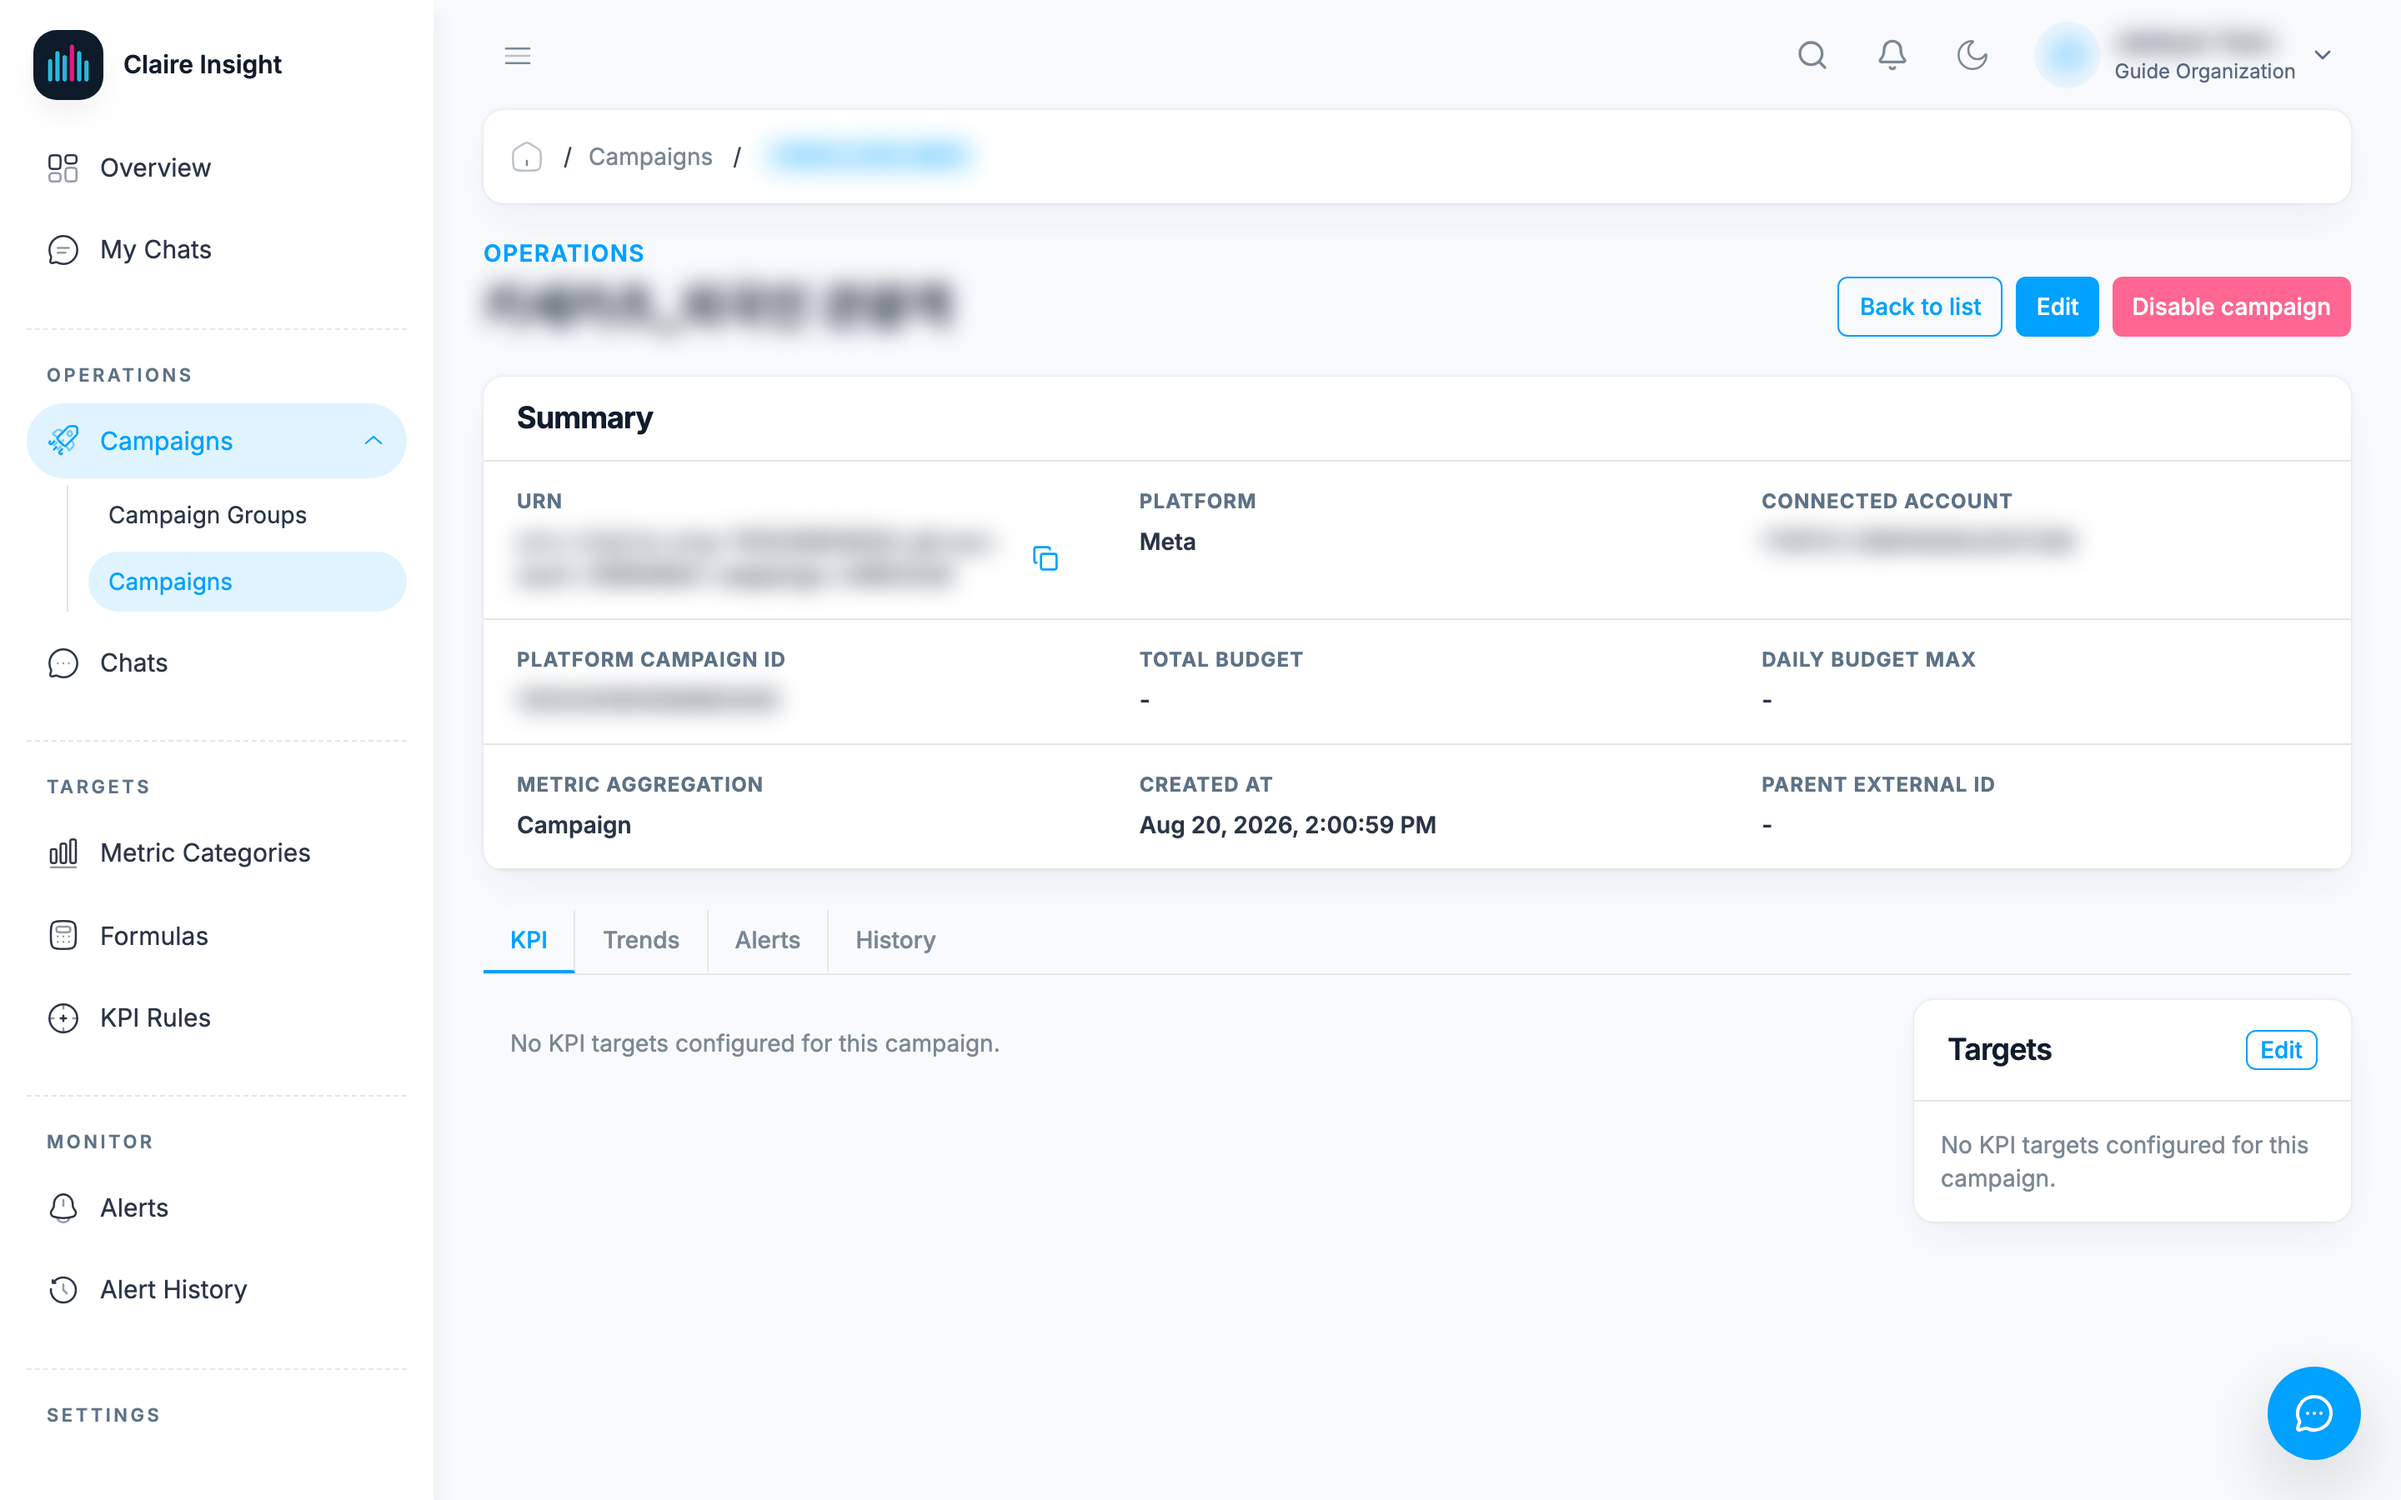
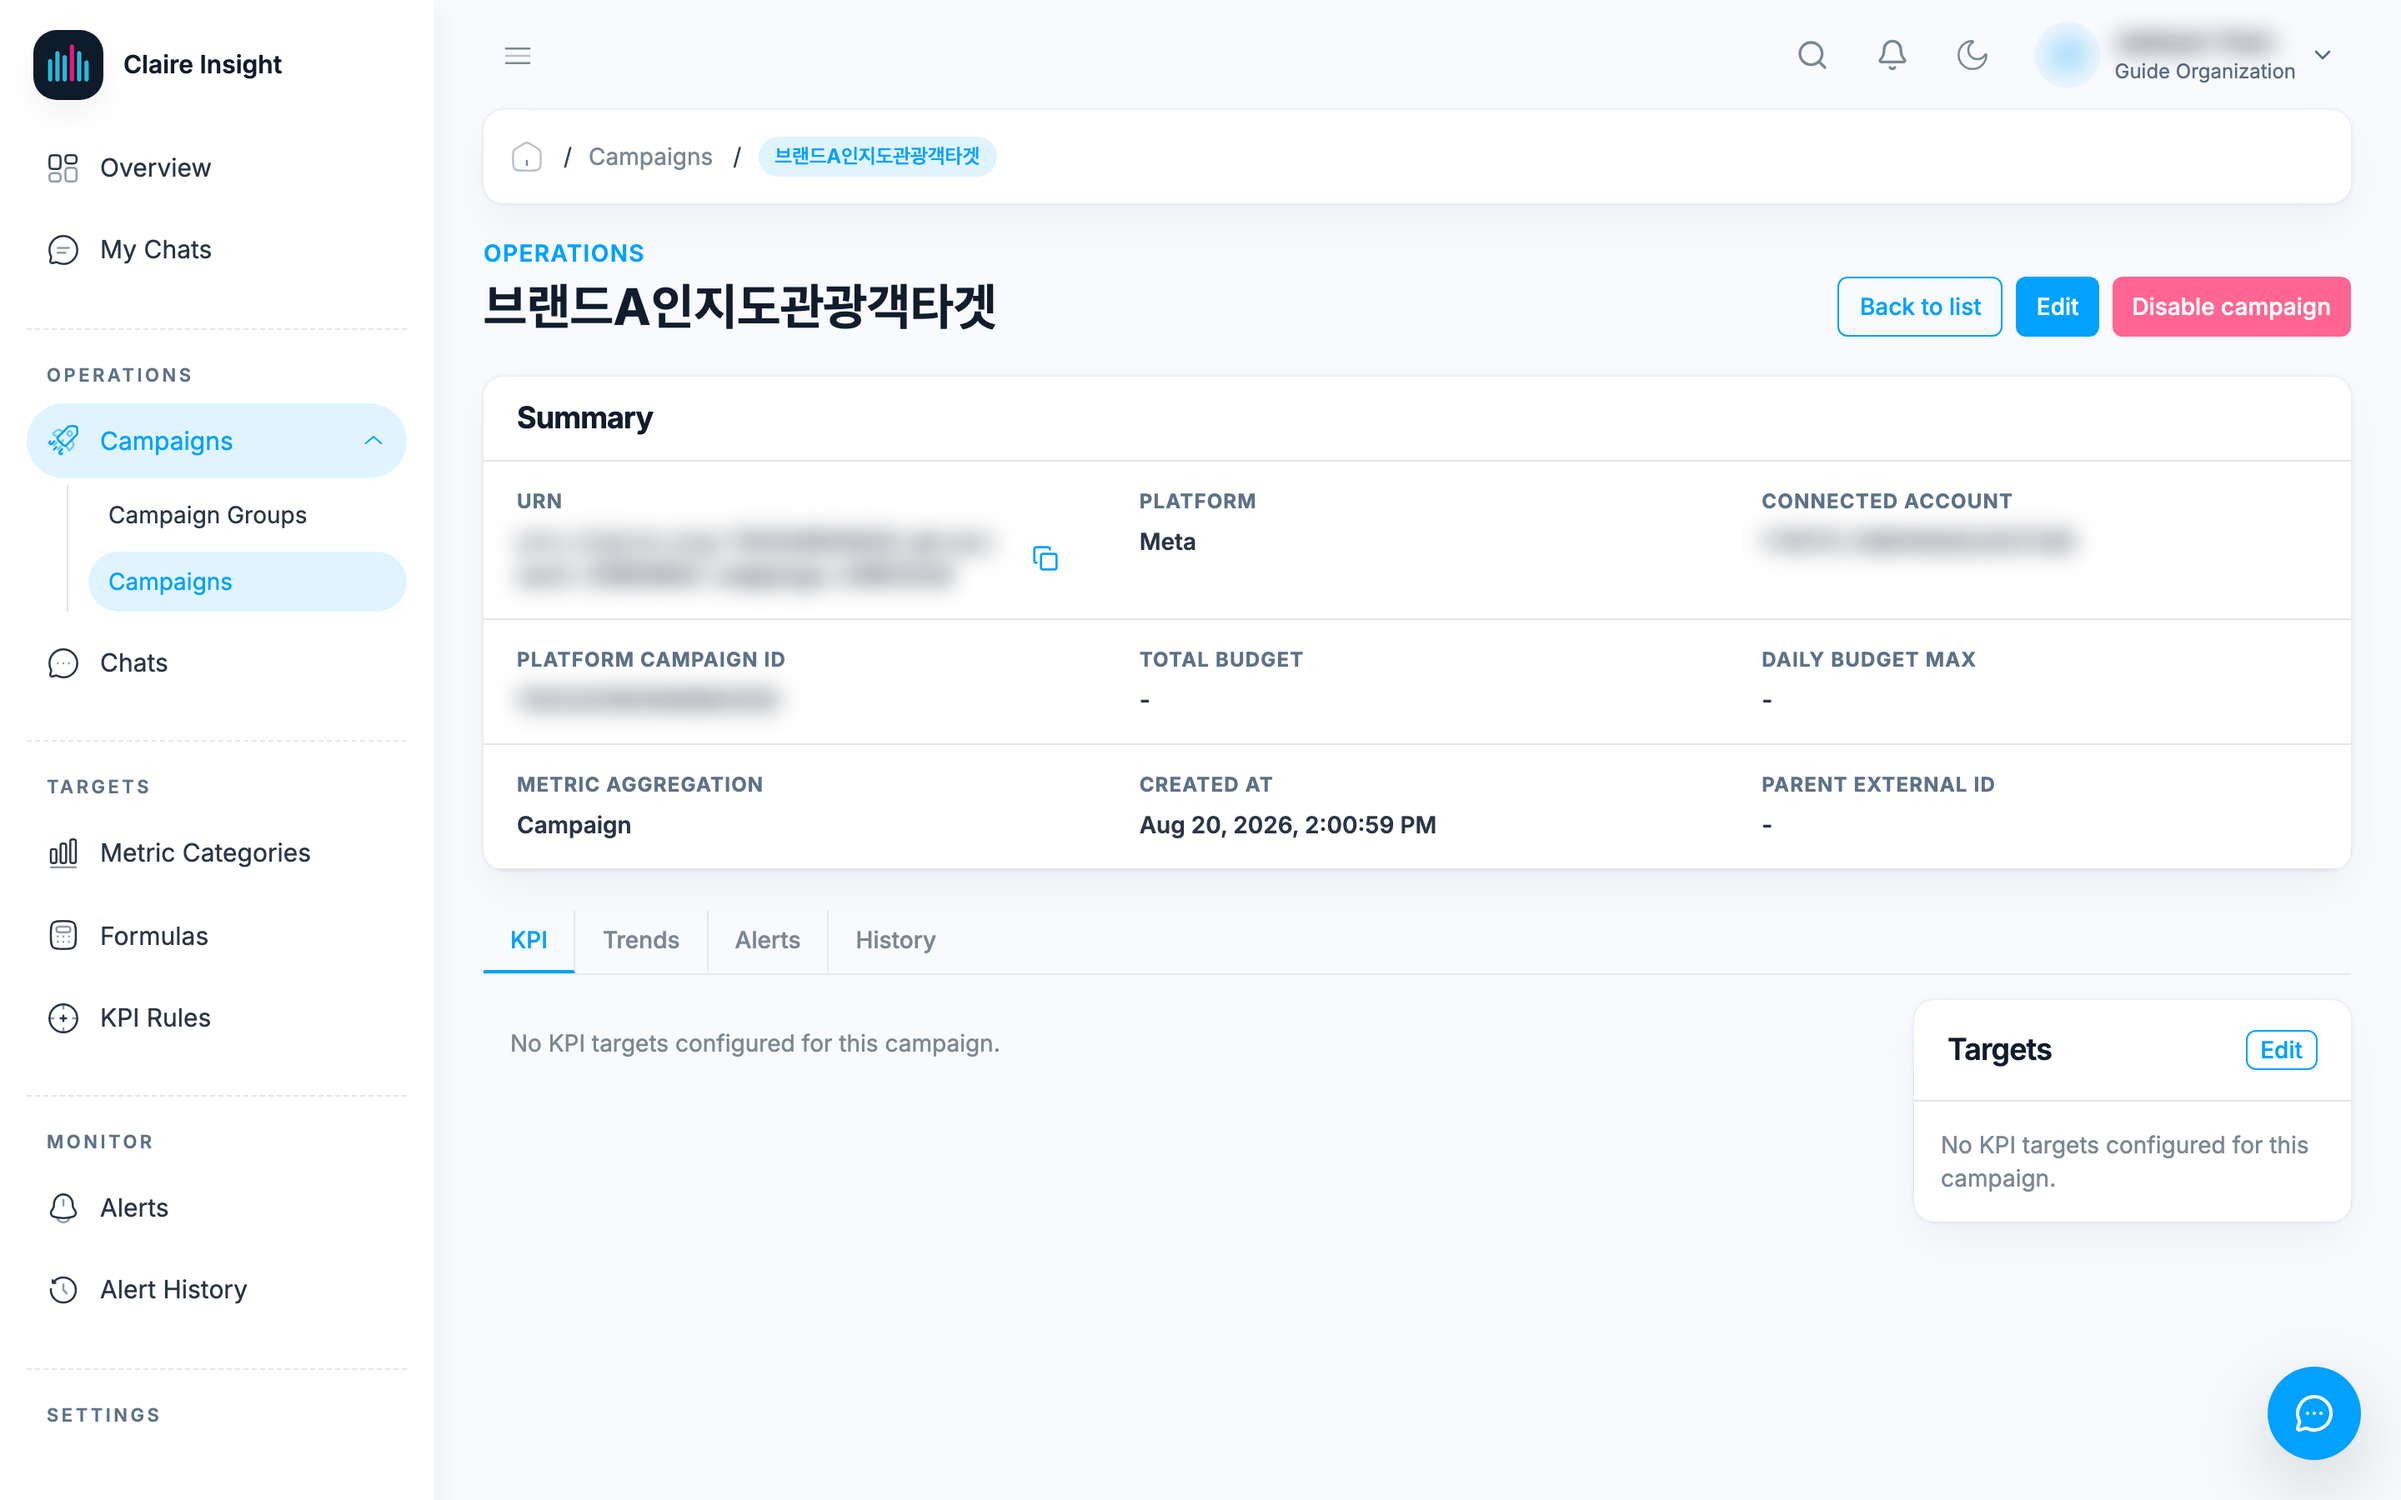
데모명 기반 캡처 전면 교체 + 영상 안전장치 강화
- 스크린샷 14장 재캡처 (광고주 데이터 → 브랜드A/B 데모명, 블러 최소화)
- 블러 규칙 추가: 12자리 이상 숫자열(매체 계정·캠페인 ID) 자동 블러
- 영상: 자막 상시 표시, 대화 이력 없는 캠페인으로 동선 변경

Changed region(s): [[0.1875, 0.1867, 0.4375, 0.2489], [0.3125, 0.0933, 0.4375, 0.1244]]

diff --git a/tools/claire-capture/record_test.py b/tools/claire-capture/record_test.py
@@ -21,7 +21,8 @@ OUT = HERE / "out"
 AUTO_BLUR_JS = """
 (words) => {
   const blurEl = (el) => { el.style.filter = 'blur(7px)'; };
-  const hit = (t) => words.some((w) => t.includes(w));
+  // 명시 목록 + 12자리 이상 숫자열(매체 계정·캠페인 ID) 전부 블러
+  const hit = (t) => words.some((w) => t.includes(w)) || /\\d{12,}/.test(t);
   const scan = (root) => {
     if (root.nodeType === 3) {
       if (hit(root.textContent || '') && root.parentElement) blurEl(root.parentElement);
@@ -113,11 +114,11 @@ class Recorder:
         self.pos = (60.0, 60.0)
 
     def prep(self, wait=1800):
-        """화면 전환 직후: 블러 + 커서 + 자막 레이어 재주입."""
+        """화면 전환 직후: 블러 + 커서 레이어 재주입.
+        자막은 숨기지 않는다 — 다음 caption()이 올 때까지 유지 (짧아서 놓치는 문제)."""
         self.page.wait_for_timeout(wait)
         self.page.evaluate(AUTO_BLUR_JS, SENSITIVE)
         self.page.evaluate(CURSOR_JS)
-        self.page.evaluate(CAPTION_JS, None)
 
     def caption(self, text, hold=1200):
         self.page.evaluate(CAPTION_JS, text)
@@ -186,8 +187,10 @@ def main():
         page.wait_for_timeout(1400)
 
         # 4. 캠페인 상세 → Trends 탭
+        # 대화 이력 없는 캠페인(지점1)으로 — 이력이 있으면 채팅 패널에
+        # 과거 대화(테스트 에러 응답 포함)가 그대로 보인다 (실사고)
         r.caption("캠페인 상세로 들어가 성과를 확인합니다", 900)
-        r.click(page.get_by_role("link", name="View details").first)
+        r.click(page.locator("tr", has_text="지점1").get_by_role("link", name="View details"))
         r.prep(1500)
         r.click(page.get_by_role("tab", name="Trends"))
         r.prep(1000)

diff --git a/tools/claire-capture/capture.py b/tools/claire-capture/capture.py
@@ -35,11 +35,14 @@ SENSITIVE = [
 BLUR_JS = """
 (words) => {
   const hits = new Set();
+  // 12자리 이상 숫자열 = 매체 계정·캠페인 ID로 간주해 무조건 블러
+  // (개별 문자열 나열은 새 캠페인이 생기면 누락된다 — 실사고)
+  const hit = (t) => words.some((w) => t.includes(w)) || /\\d{12,}/.test(t);
   const walker = document.createTreeWalker(document.body, NodeFilter.SHOW_TEXT);
   let n;
   while ((n = walker.nextNode())) {
     const t = n.textContent || '';
-    if (words.some((w) => t.includes(w))) {
+    if (hit(t)) {
       if (n.parentElement) hits.add(n.parentElement);
     }
   }
